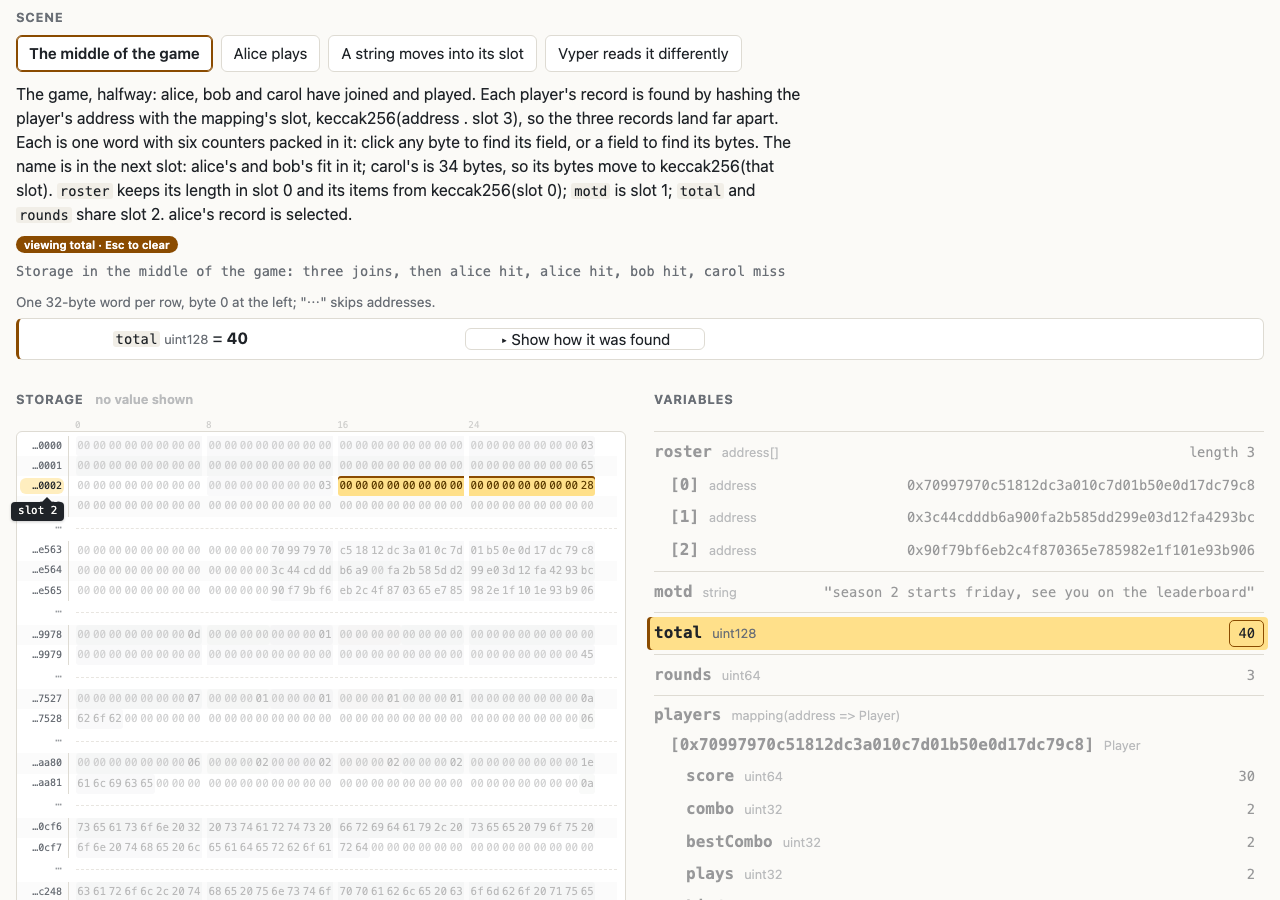
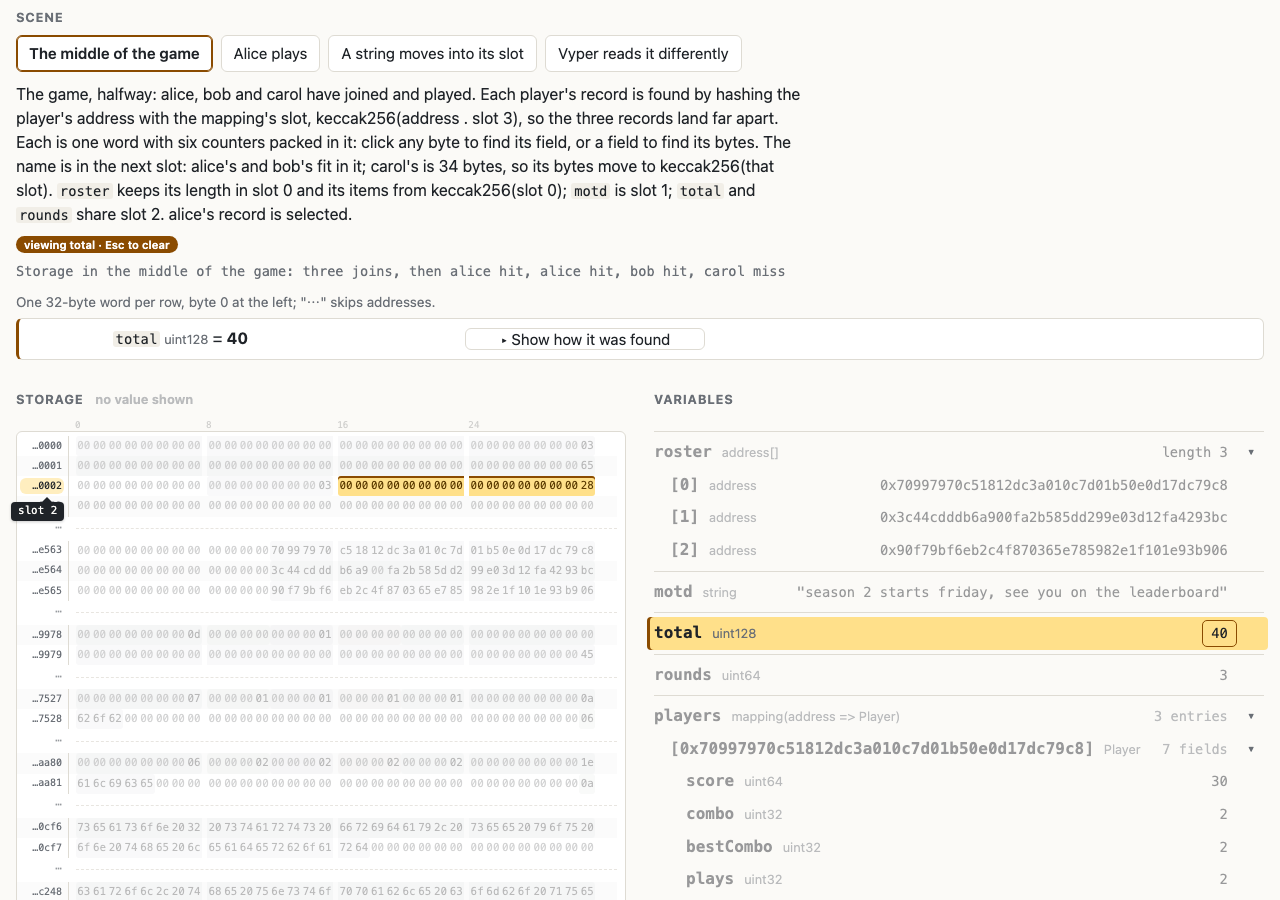
Inspector: groups in the tree expand and collapse by a chevron at the row's right end; a collapsed selection lights all yellow; a selection opens the path to it

diff --git a/demos/inspector/main.js b/demos/inspector/main.js
@@ -100,18 +100,96 @@ function row(node, top) {
   } else if (node.note) {
     val = `<span class="muted">${esc(node.note)}</span>`;
   }
+  // a group (an array, a mapping, a struct, an entry): its summary at
+  // the right end of its row (an array's length is its value), then its
+  // chevron, a button of its own (a click on the row selects)
+  const group = !!node.children?.length;
+  const n = node.children?.length ?? 0;
+  if (group && !v) {
+    const words = type?.kind === "mapping" ? ["entry", "entries"]
+      : type?.kind === "struct" ? ["field", "fields"] : ["item", "items"];
+    val = `<span class="val sum">${n} ${words[n === 1 ? 0 : 1]}</span>`;
+  }
+  const shut = group && !!collapsed[current.id]?.has(node.path);
+  const chev = group ? `<button type="button" class="chev" aria-expanded="${
+    !shut}" aria-label="${shut ? "Expand" : "Collapse"} ${esc(node.label)}">${
+    shut ? "▸" : "▾"}</button>` : "";
   const kids = node.children?.length
     ? `<ul>${node.children.map((c) => row(c)).join("")}</ul>`
     : node.children && !node.before && !node.after
       ? `<p class="muted empty">no keys hashed in this transaction</p>`
       : "";
   const cls = current.single ? "" : node.changed ? "chg" : "same";
-  return `<li class="${cls}${top ? " top" : ""}"`.replace('class=" ',
-    'class="') +
+  return `<li class="${cls}${top ? " top" : ""}${shut ? " collapsed" : ""}"`
+    .replace('class=" ', 'class="') +
     ` data-path="${esc(node.path)}">` +
     `<div class="row" tabindex="0" role="button" aria-pressed="false">` +
     `<span class="name">${esc(node.label)}</span>` +
-    `<span class="type">${esc(tname)}</span>${val}</div>${kids}</li>`;
+    `<span class="type">${esc(tname)}</span>${val}</div>${chev}${kids}</li>`;
+}
+
+// The groups the reader has collapsed, by scene (all open by default;
+// kept while on the page)
+const collapsed = {};
+// Open or close a group: a deliberate action, so the tree may change
+// (a quick height animation; at once with reduced motion). The dump
+// does not move.
+function setOpen(li, open, animate = true) {
+  const set = (collapsed[current.id] ??= new Set());
+  if (open) set.delete(li.dataset.path);
+  else set.add(li.dataset.path);
+  const btn = li.querySelector(":scope > .chev");
+  btn.setAttribute("aria-expanded", String(open));
+  btn.setAttribute("aria-label", `${open ? "Collapse" : "Expand"} ${
+    li.querySelector(":scope > .row .name").textContent}`);
+  btn.textContent = open ? "▾" : "▸";
+  const ul = li.querySelector(":scope > ul");
+  const done = () => {
+    li.classList.toggle("collapsed", !open);
+    show();
+  };
+  if (!ul || !animate || still()) return done();
+  li.classList.remove("collapsed");
+  const h = ul.scrollHeight;
+  ul.style.overflow = "hidden";
+  ul.animate([{ height: `${open ? 0 : h}px` },
+    { height: `${open ? h : 0}px` }],
+    { duration: 180, easing: open ? "ease-out" : "ease-in" }).finished
+    .then(() => {
+      ul.style.overflow = "";
+      done();
+    });
+  if (open) show();
+}
+// Open the groups a path is inside (a selection or a replay step there)
+function expandTo(path) {
+  let li = path && $("tree").querySelector(
+    `li[data-path="${CSS.escape(path)}"]`);
+  for (li = li?.parentElement.closest("li"); li;
+    li = li.parentElement.closest("li")) {
+    if (li.classList.contains("collapsed")) setOpen(li, true, false);
+  }
+}
+// A colour is a legend only where its rows show: a value whose row is
+// hidden in a collapsed group takes the colour of the row that shows
+// it, or the selection's yellow (0)
+function legend(h) {
+  if (!h?.colors || !$("tree").querySelector("li.collapsed")) return h;
+  const shownAs = (p) => {
+    const li = $("tree").querySelector(`li[data-path="${CSS.escape(p)}"]`);
+    let v = li;
+    for (let a = li?.parentElement.closest("li"); a;
+      a = a.parentElement.closest("li")) {
+      if (a.classList.contains("collapsed")) v = a;
+    }
+    return v?.dataset.path ?? p;
+  };
+  const colors = new Map();
+  for (const [p, k] of h.colors) {
+    const v = shownAs(p);
+    colors.set(p, v === p || h.colors.get(v) === k ? k : 0);
+  }
+  return { ...h, colors };
 }
 
 function renderTree() {
@@ -143,6 +221,7 @@ function alignColumns() {
 
 // Scroll the tree, inside its box only, to show a row
 function treeTo(path) {
+  expandTo(path);
   const tree = $("tree");
   const li = path && tree.querySelector(`li[data-path="${CSS.escape(path)}"]` +
     " > .row");
@@ -1425,7 +1504,8 @@ const PROBE = "Point at a value or a byte for its details.";
 function show() {
   const sel = chosen ? forRow(current.panel, chosen) : null;
   // a replay shows its step, whatever the pointer is on
-  const h = replay ? stepLight(replay.steps[replay.i]) : hover ?? sel;
+  const h = legend(replay ? stepLight(replay.steps[replay.i])
+    : hover ?? sel);
   // (the selected row first: paint's merged blocks depend on it)
   for (const r of $("tree").querySelectorAll("li[data-path] > .row")) {
     const on = r.parentElement.dataset.path === chosen;
@@ -1650,6 +1730,9 @@ document.addEventListener("click", (e) => {
     applyMode();
     return keep();
   }
+  const cv = t.closest("#tree .chev");
+  if (cv) return setOpen(cv.parentElement, cv.getAttribute(
+    "aria-expanded") !== "true");
   const fb = t.closest("#dpick button[data-focus]");
   if (fb) return setFocus(fb.dataset.focus);
   const chip = t.closest("#chips .chip");
@@ -1707,6 +1790,7 @@ document.addEventListener("keydown", (e) => {
     e.preventDefault();
     return flip(h);
   }
+  if (e.target.closest?.(".chev")) return;
   if (e.target.closest?.("#tree .row, #panel .b[tabindex]") ||
     baseRow(e.target)) {
     e.preventDefault();

diff --git a/demos/inspector/style.css b/demos/inspector/style.css
@@ -1119,6 +1119,18 @@ html { overflow-anchor: none; }
   Menlo, monospace; font-weight: 600; }
 .rcap code.id, .rshort code.id { background: none; padding: 0; border: 0;
   font-size: 0.95em; }
+/* a group's chevron: at the right end of its row, one column for all
+   (every row keeps the room, so the values align) */
+#tree .row { padding-right: 1.7em; }
+#tree li > .chev { position: absolute; right: 0; top: 2px; width: 1.5em;
+  height: 1.5em; padding: 0; border: 0; border-radius: 4px; background: none;
+  color: var(--muted); font: inherit; font-size: 1.1rem; line-height: 1.5em;
+  cursor: pointer; z-index: 1; }
+#tree li.top > .chev { top: 6px; }
+#tree li > .chev:hover { color: var(--fg); }
+#tree li > .chev:focus-visible { outline: 2px solid var(--accent); }
+#tree li.collapsed > ul { display: none; }
+.val.sum { color: var(--muted); font-size: 0.85rem; }
 /* a block of tree rows in one colour: the item, key line and parts */
 .tree li.blk { background: var(--pk, var(--mark)); color: var(--pk-fg,
   var(--chg-fg)); border-radius: 4px; box-shadow: -4px 0 0 var(--pk,

diff --git a/demos/inspector/README.md b/demos/inspector/README.md
@@ -352,6 +352,21 @@ selected value's declaration is marked (its lines) in the contract's
 source at the top of the page, the one source block. The tree's top padding is set so its first row and
 the dump's first line share a height (`alignColumns()`).
 
+Every group in the tree (an array, a mapping, a struct, an entry)
+shows a summary at the right end of its row (`length 3`, `3 entries`,
+`7 fields`) and a chevron button after it, in one column; the button
+expands or collapses the group (a click on the row still selects). All
+groups start open; the state is kept per scene while on the page. A
+toggle animates the tree's height briefly (at once with reduced
+motion); the dump never moves. Colours are a legend only where their
+rows show: a collapsed selection lights its bytes all in the selection
+yellow, as does a replay step whose coloured rows are hidden. A
+selection or a replay step inside a collapsed group opens the path to
+it. With a composite selected, its children's blocks are the targets:
+a click or hover anywhere in alice's block (in the tree or the dump)
+targets alice's entry; with alice selected, her members are the
+blocks. With nothing selected, the most specific value is the target.
+
 Nothing moves when a value is selected, pointed at or stepped through:
 emphasis is lighting and muting only. The bar (`#details`) is one line
 over both columns, in the page's flow (nothing on the page is sticky
